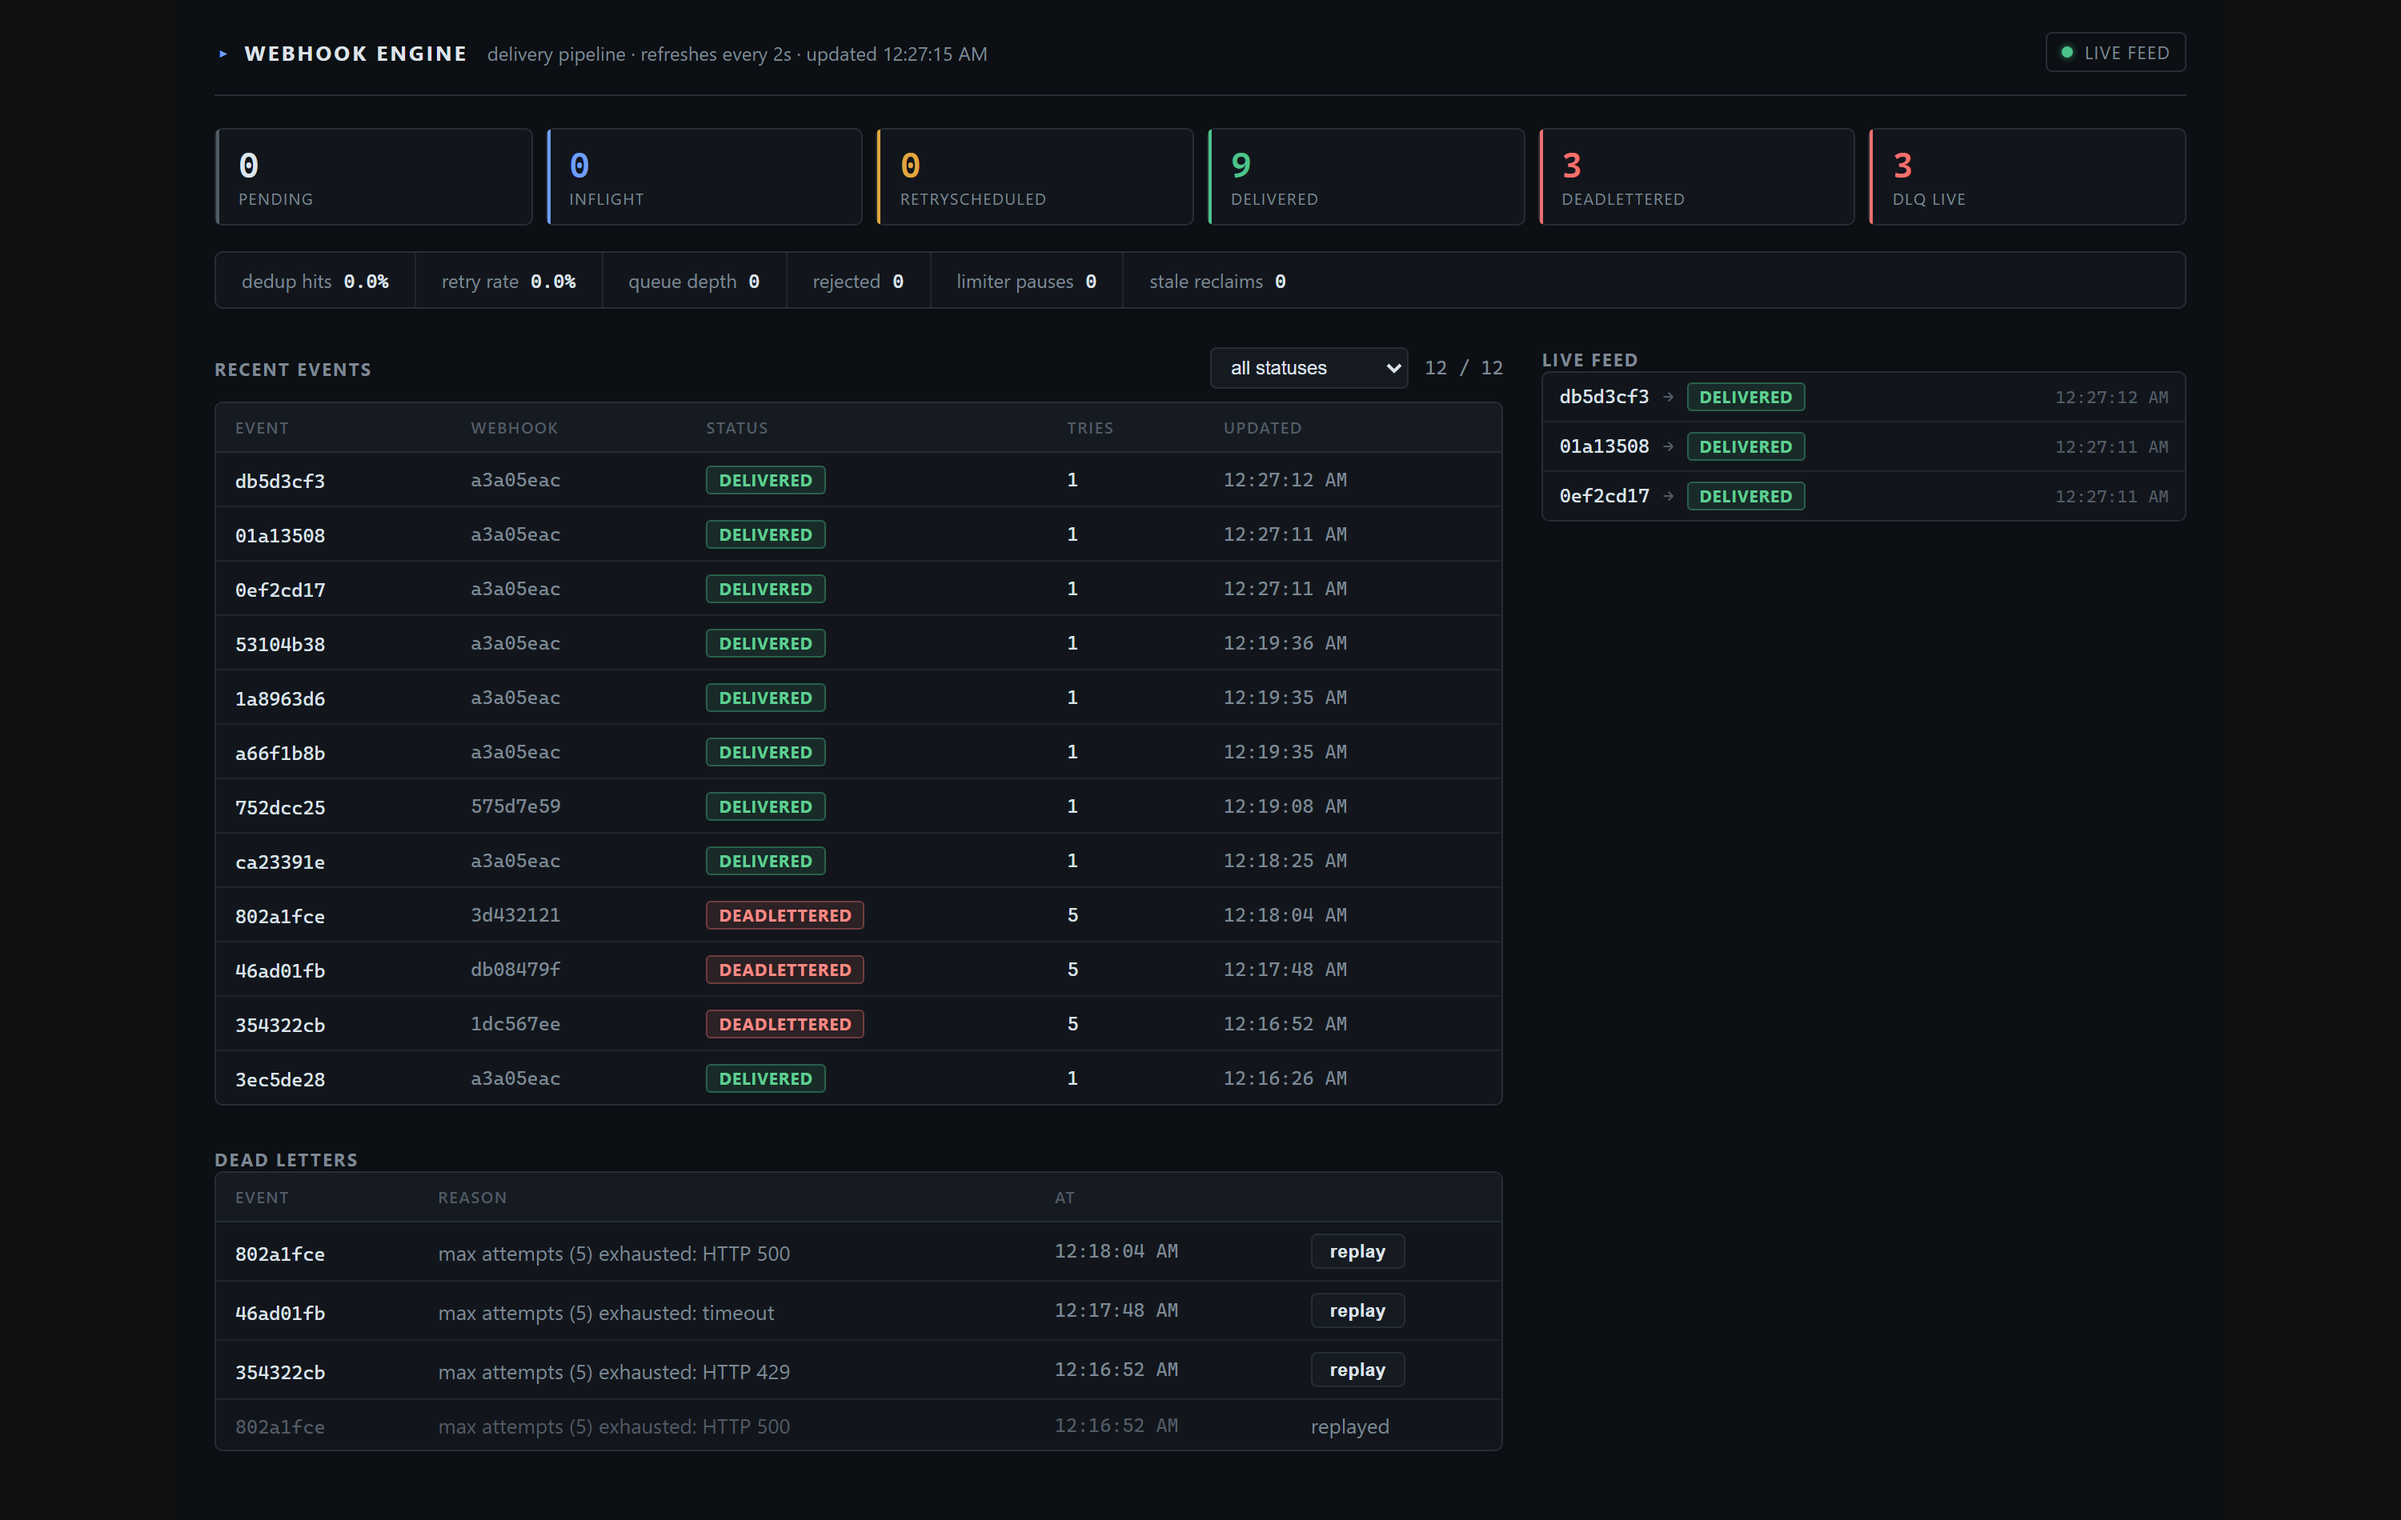
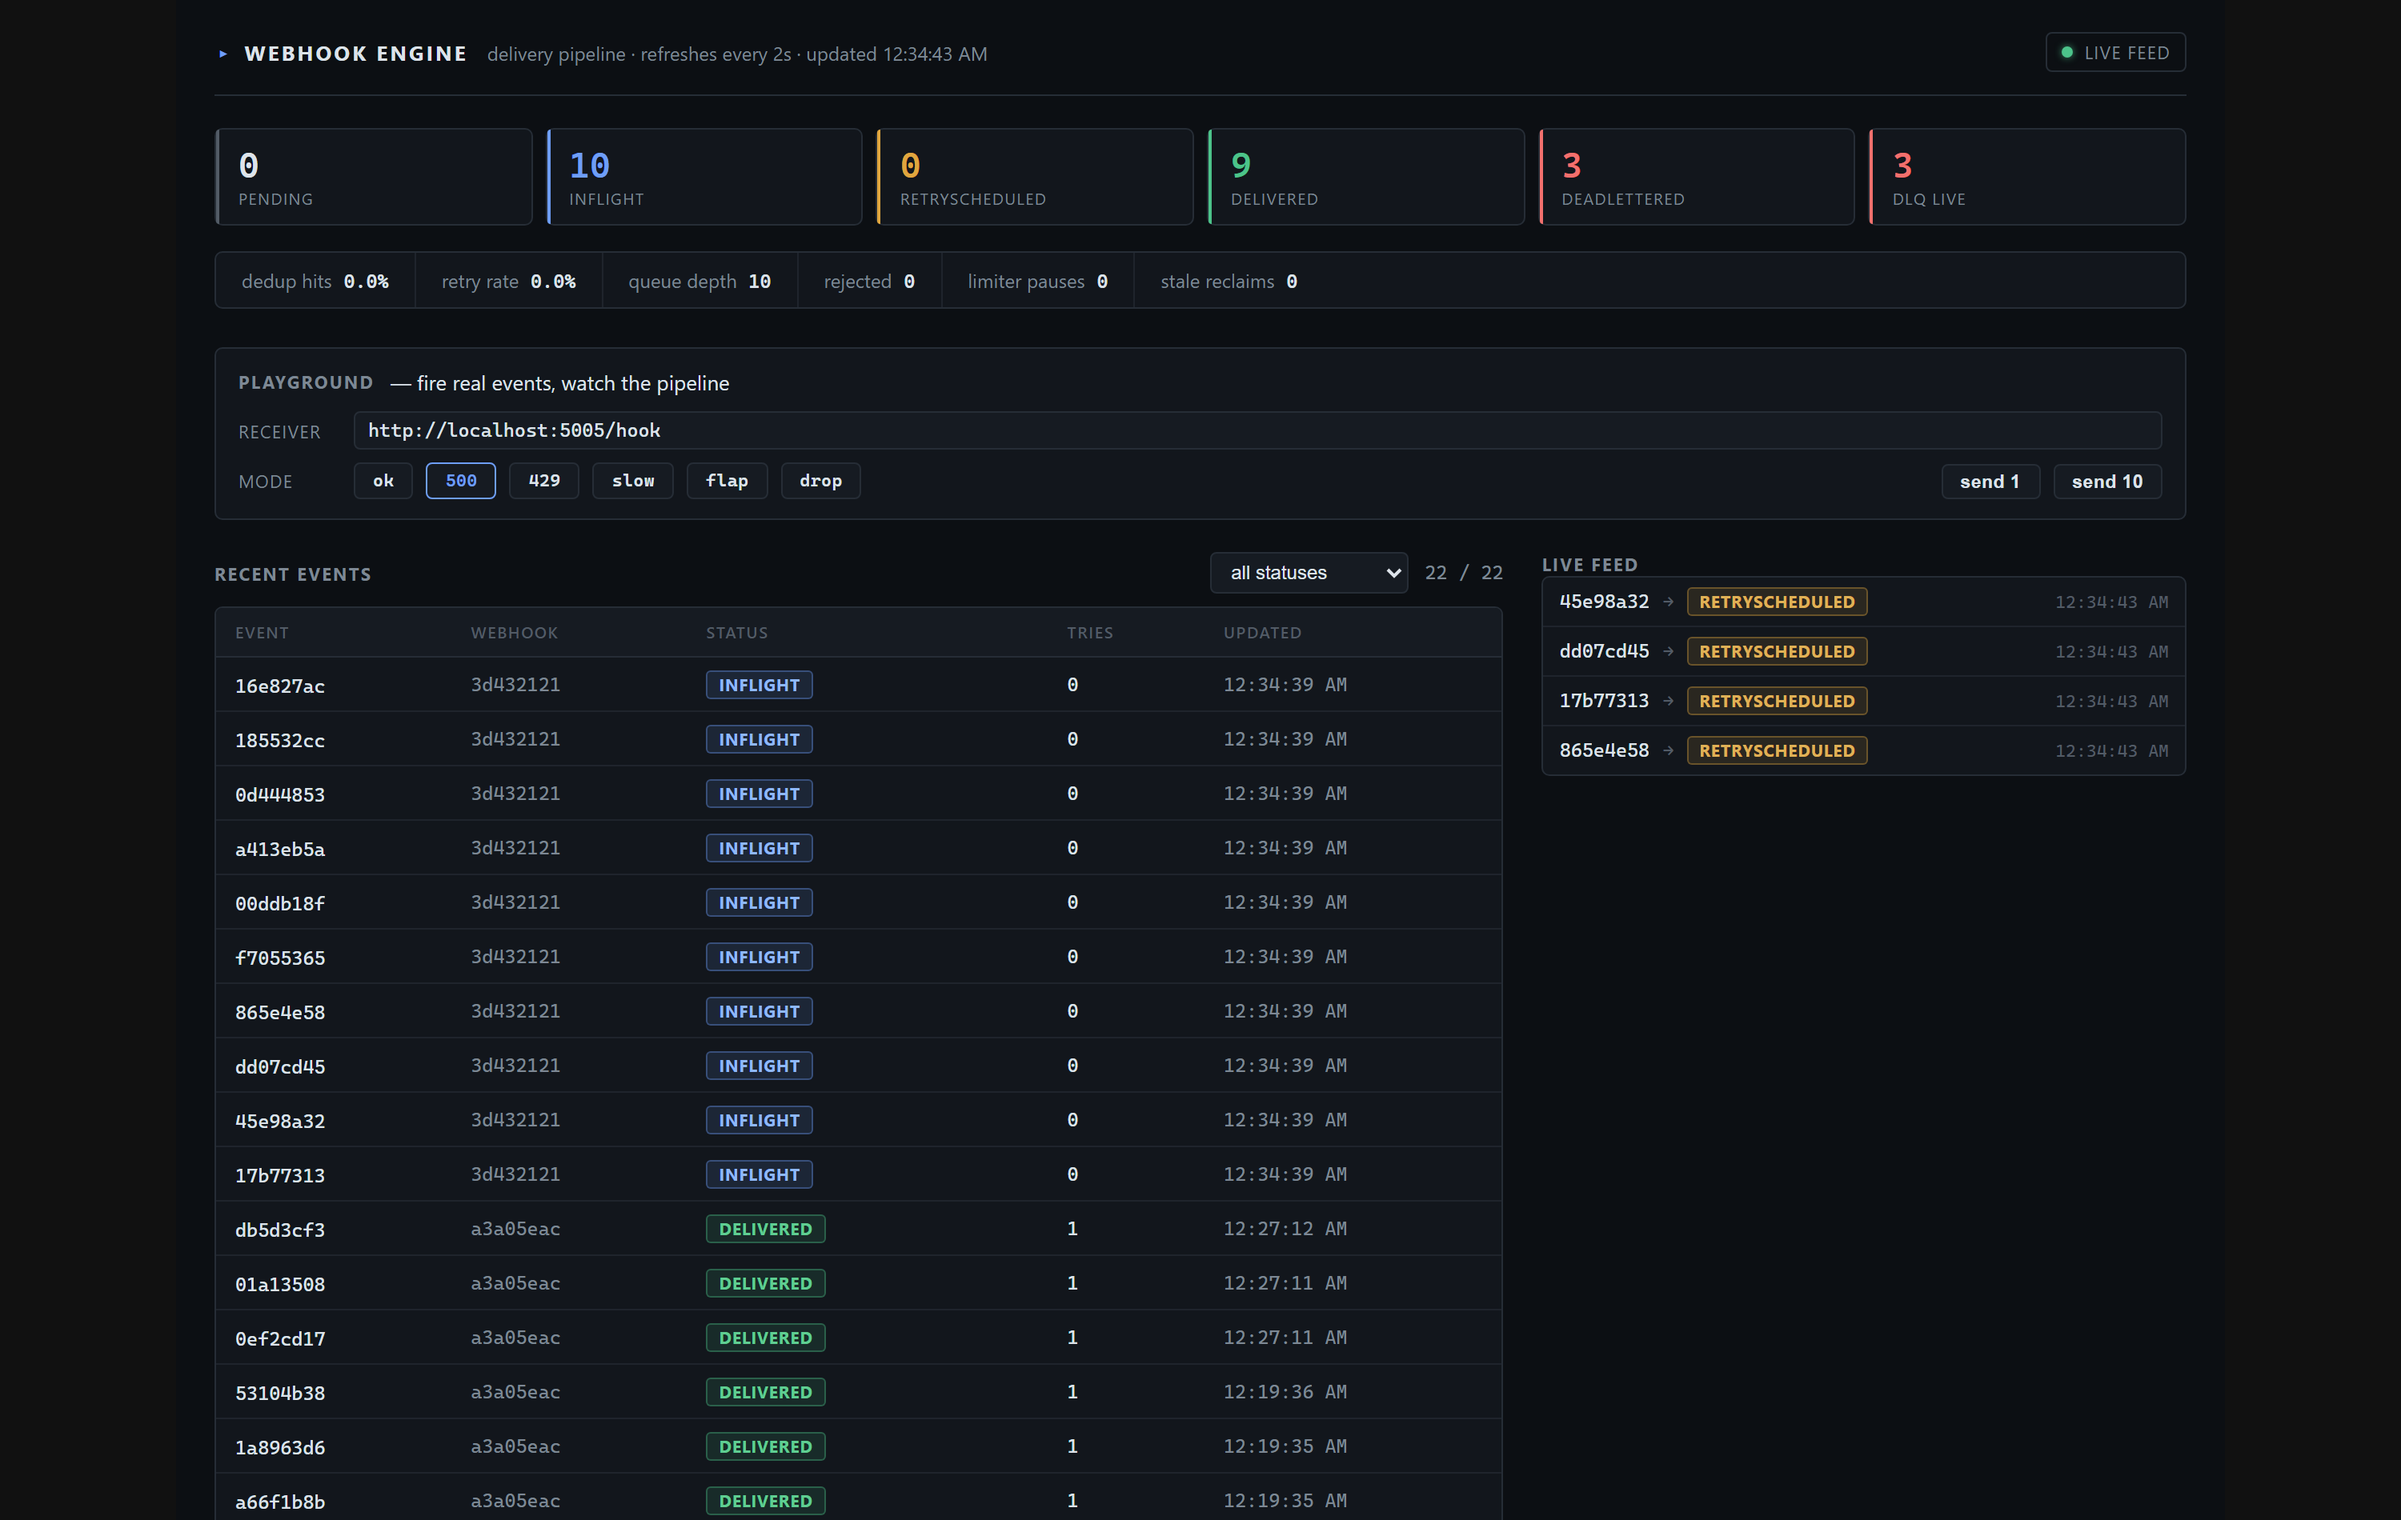
Add Playground panel: drive the pipeline by clicking
- register demo endpoints: six webhooks pointing at MockReceiver
  chaos modes (ok/500/429/slow/flap/drop), receiver base editable
- mode buttons + send 1/send 10 fire real POST /events — retries,
  DLQ entries and the live feed appear within seconds
- disabled states: mode buttons lock until endpoints exist,
  send buttons lock while a burst is in flight

diff --git a/dashboard/src/components/Playground.tsx b/dashboard/src/components/Playground.tsx
@@ -1,0 +1,99 @@
+import { useEffect, useState } from 'react'
+import { getWebhooks, registerWebhook, sendEvent, type Webhook } from '../api'
+
+// Receiver chaos modes from tools/MockReceiver — each gets its own
+// webhook so a visitor can drive the whole pipeline by clicking:
+// ok delivers, 500/429/slow retry and dead-letter, flap alternates.
+const MODES = ['ok', '500', '429', 'slow', 'flap', 'drop'] as const
+
+interface Props {
+  onChanged: () => void
+}
+
+export function Playground({ onChanged }: Props) {
+  const [webhooks, setWebhooks] = useState<Webhook[]>([])
+  const [base, setBase] = useState('http://localhost:5005/hook')
+  const [mode, setMode] = useState<string>('ok')
+  const [busy, setBusy] = useState(false)
+
+  const load = () => getWebhooks().then(setWebhooks).catch(() => {})
+  useEffect(() => { load() }, [])
+
+  const hookFor = (m: string) =>
+    webhooks.find(w => w.url === `${base}${m === 'ok' ? '' : `?mode=${m}`}`)
+
+  const ensure = async () => {
+    setBusy(true)
+    try {
+      for (const m of MODES) {
+        if (!hookFor(m)) {
+          await registerWebhook(
+            `${base}${m === 'ok' ? '' : `?mode=${m}`}`, 50)
+        }
+      }
+      await load()
+      onChanged()
+    } finally { setBusy(false) }
+  }
+
+  const fire = async (n: number) => {
+    const wh = hookFor(mode)
+    if (!wh) return
+    setBusy(true)
+    try {
+      for (let i = 0; i < n; i++) {
+        await sendEvent(wh.id, JSON.stringify({
+          demo: mode, n: `${Date.now()}-${i}`,
+        }))
+      }
+      onChanged()
+    } finally { setBusy(false) }
+  }
+
+  const ready = MODES.every(m => hookFor(m))
+
+  return (
+    <section className="playground">
+      <div className="toolbar">
+        <h2 style={{ margin: 0 }}>Playground</h2>
+        <span className="sub">— fire real events, watch the pipeline</span>
+        <span className="spacer" style={{ flex: 1 }} />
+        {!ready && (
+          <button onClick={ensure} disabled={busy}>
+            register demo endpoints
+          </button>
+        )}
+      </div>
+      <div className="pg-row">
+        <label className="muted">receiver</label>
+        <input
+          className="pg-base mono"
+          value={base}
+          onChange={e => setBase(e.target.value.replace(/\/$/, ''))}
+          spellCheck={false}
+        />
+      </div>
+      <div className="pg-row">
+        <label className="muted">mode</label>
+        {MODES.map(m => (
+          <button
+            key={m}
+            className={`pg-mode${mode === m ? ' sel' : ''}`}
+            onClick={() => setMode(m)}
+            disabled={!hookFor(m)}
+            title={hookFor(m) ? '' : 'register demo endpoints first'}
+          >
+            {m}
+          </button>
+        ))}
+        <span className="spacer" style={{ flex: 1 }} />
+        <button onClick={() => fire(1)} disabled={busy || !hookFor(mode)}>
+          send 1
+        </button>
+        <button onClick={() => fire(10)} disabled={busy || !hookFor(mode)}>
+          send 10
+        </button>
+      </div>
+    </section>
+  )
+}

diff --git a/dashboard/src/App.css b/dashboard/src/App.css
@@ -169,6 +169,26 @@ button {
   cursor: pointer; letter-spacing: .02em;
 }
 button:hover { border-color: var(--accent); color: var(--accent); }
+button:disabled { opacity: .4; cursor: default; }
+button:disabled:hover { border-color: var(--border); color: var(--text); }
+
+/* ---------- playground ---------- */
+
+.playground {
+  margin-bottom: 20px; padding: 12px 14px;
+  border: 1px solid var(--border); border-radius: 5px; background: var(--panel);
+}
+.playground .toolbar { margin-bottom: 10px; }
+.pg-row { display: flex; align-items: center; gap: 8px; margin-top: 8px; }
+.pg-row label { font-size: 11px; text-transform: uppercase; letter-spacing: .06em; width: 64px; }
+.pg-base {
+  flex: 1; background: var(--panel-2); color: var(--text);
+  border: 1px solid var(--border); border-radius: 4px;
+  padding: 4px 8px; font-size: 12px; outline: none;
+}
+.pg-base:focus { border-color: var(--accent); }
+.pg-mode { font-family: var(--mono); font-size: 11px; }
+.pg-mode.sel { border-color: var(--accent); color: var(--accent); }
 
 /* ---------- live feed ---------- */
 

diff --git a/dashboard/src/api.ts b/dashboard/src/api.ts
@@ -70,3 +70,30 @@ export const getDeadLetters = (): Promise<DeadLetter[]> =>
 
 export const replay = (eventId: string): Promise<Response> =>
   fetch(`/deadletters/${eventId}/replay`, { method: 'POST' })
+
+// --- Playground mutations -------------------------------------------------
+
+export interface Webhook {
+  id: string
+  url: string
+  rateLimitPerSecond: number
+  isActive: boolean
+  createdAt: string
+}
+
+export const getWebhooks = (): Promise<Webhook[]> =>
+  fetch('/webhooks').then(j<Webhook[]>)
+
+export const registerWebhook = (url: string, rateLimitPerSecond: number): Promise<Response> =>
+  fetch('/webhooks', {
+    method: 'POST',
+    headers: { 'Content-Type': 'application/json' },
+    body: JSON.stringify({ url, rateLimitPerSecond }),
+  })
+
+export const sendEvent = (webhookId: string, payload: string): Promise<Response> =>
+  fetch('/events', {
+    method: 'POST',
+    headers: { 'Content-Type': 'application/json' },
+    body: JSON.stringify({ webhookId, payload }),
+  })

diff --git a/dashboard/src/App.tsx b/dashboard/src/App.tsx
@@ -9,6 +9,7 @@ import { EventsTable } from './components/EventsTable'
 import { AttemptsPanel } from './components/AttemptsPanel'
 import { DeadLetters } from './components/DeadLetters'
 import { LiveFeed } from './components/LiveFeed'
+import { Playground } from './components/Playground'
 import './App.css'
 
 export default function App() {
@@ -30,6 +31,7 @@ export default function App() {
       <Header lastRefresh={lastRefresh} connected={connected} />
       <StatusCards stats={stats} />
       <MetricsBar metrics={metrics} />
+      <Playground onChanged={refresh} />
       <div className="cols">
         <section>
           <EventsTable events={events} filter={filter} onFilter={setFilter} onSelect={select} />
